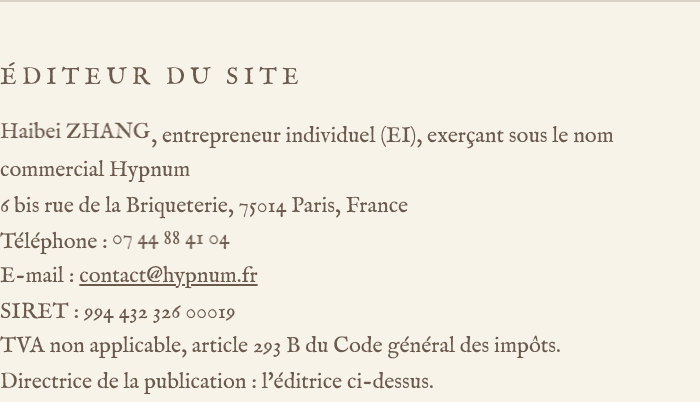
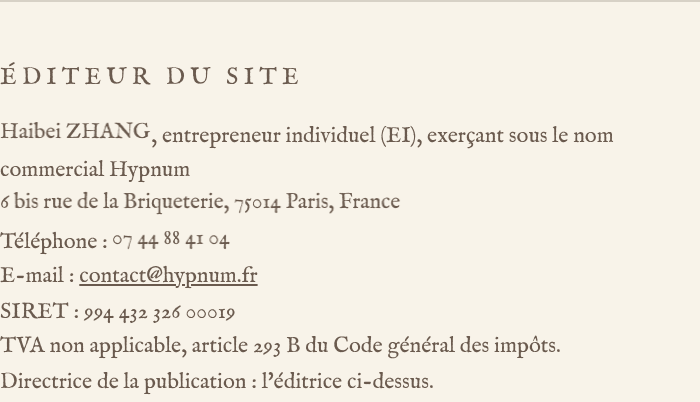
Mentions légales : adresse en image
Claude-Session: https://claude.ai/code/session_01R2fLPeYL58hyMCYVKpy9mK

Changed region(s): [[0.0, 0.4776, 0.6, 0.5373]]

diff --git a/mentions-legales.html b/mentions-legales.html
@@ -54,7 +54,7 @@ p,ul{margin:0 0 12px;} ul{padding-left:20px;}
 <p>Vous pouvez demander l'accès à vos données, leur rectification, leur effacement, leur portabilité, ou vous opposer à leur traitement, en écrivant à <a href="mailto:contact@hypnum.fr">contact@hypnum.fr</a>. Si vous estimez que vos droits ne sont pas respectés, vous pouvez adresser une réclamation à la CNIL (<a href="https://www.cnil.fr" rel="noopener">cnil.fr</a>).</p>
 <div class="editeur"><h2>Éditeur du site</h2>
 <p class="small"><img class="nm" src="/img/ed-n.png" width="77" height="14" alt="Nom de l'éditrice">, entrepreneur individuel (EI), exerçant sous le nom commercial Hypnum<br>
-[adresse]<br>
+<img class="nm" src="/img/ed-a.png" width="205" height="14" alt="Adresse postale"><br>
 Téléphone : <img class="nm" src="/img/ed-t.png" width="60" height="14" alt="Numéro de téléphone"><br>
 E-mail : <a href="mailto:contact@hypnum.fr">contact@hypnum.fr</a><br>
 SIRET : 994 432 326 00019<br>
